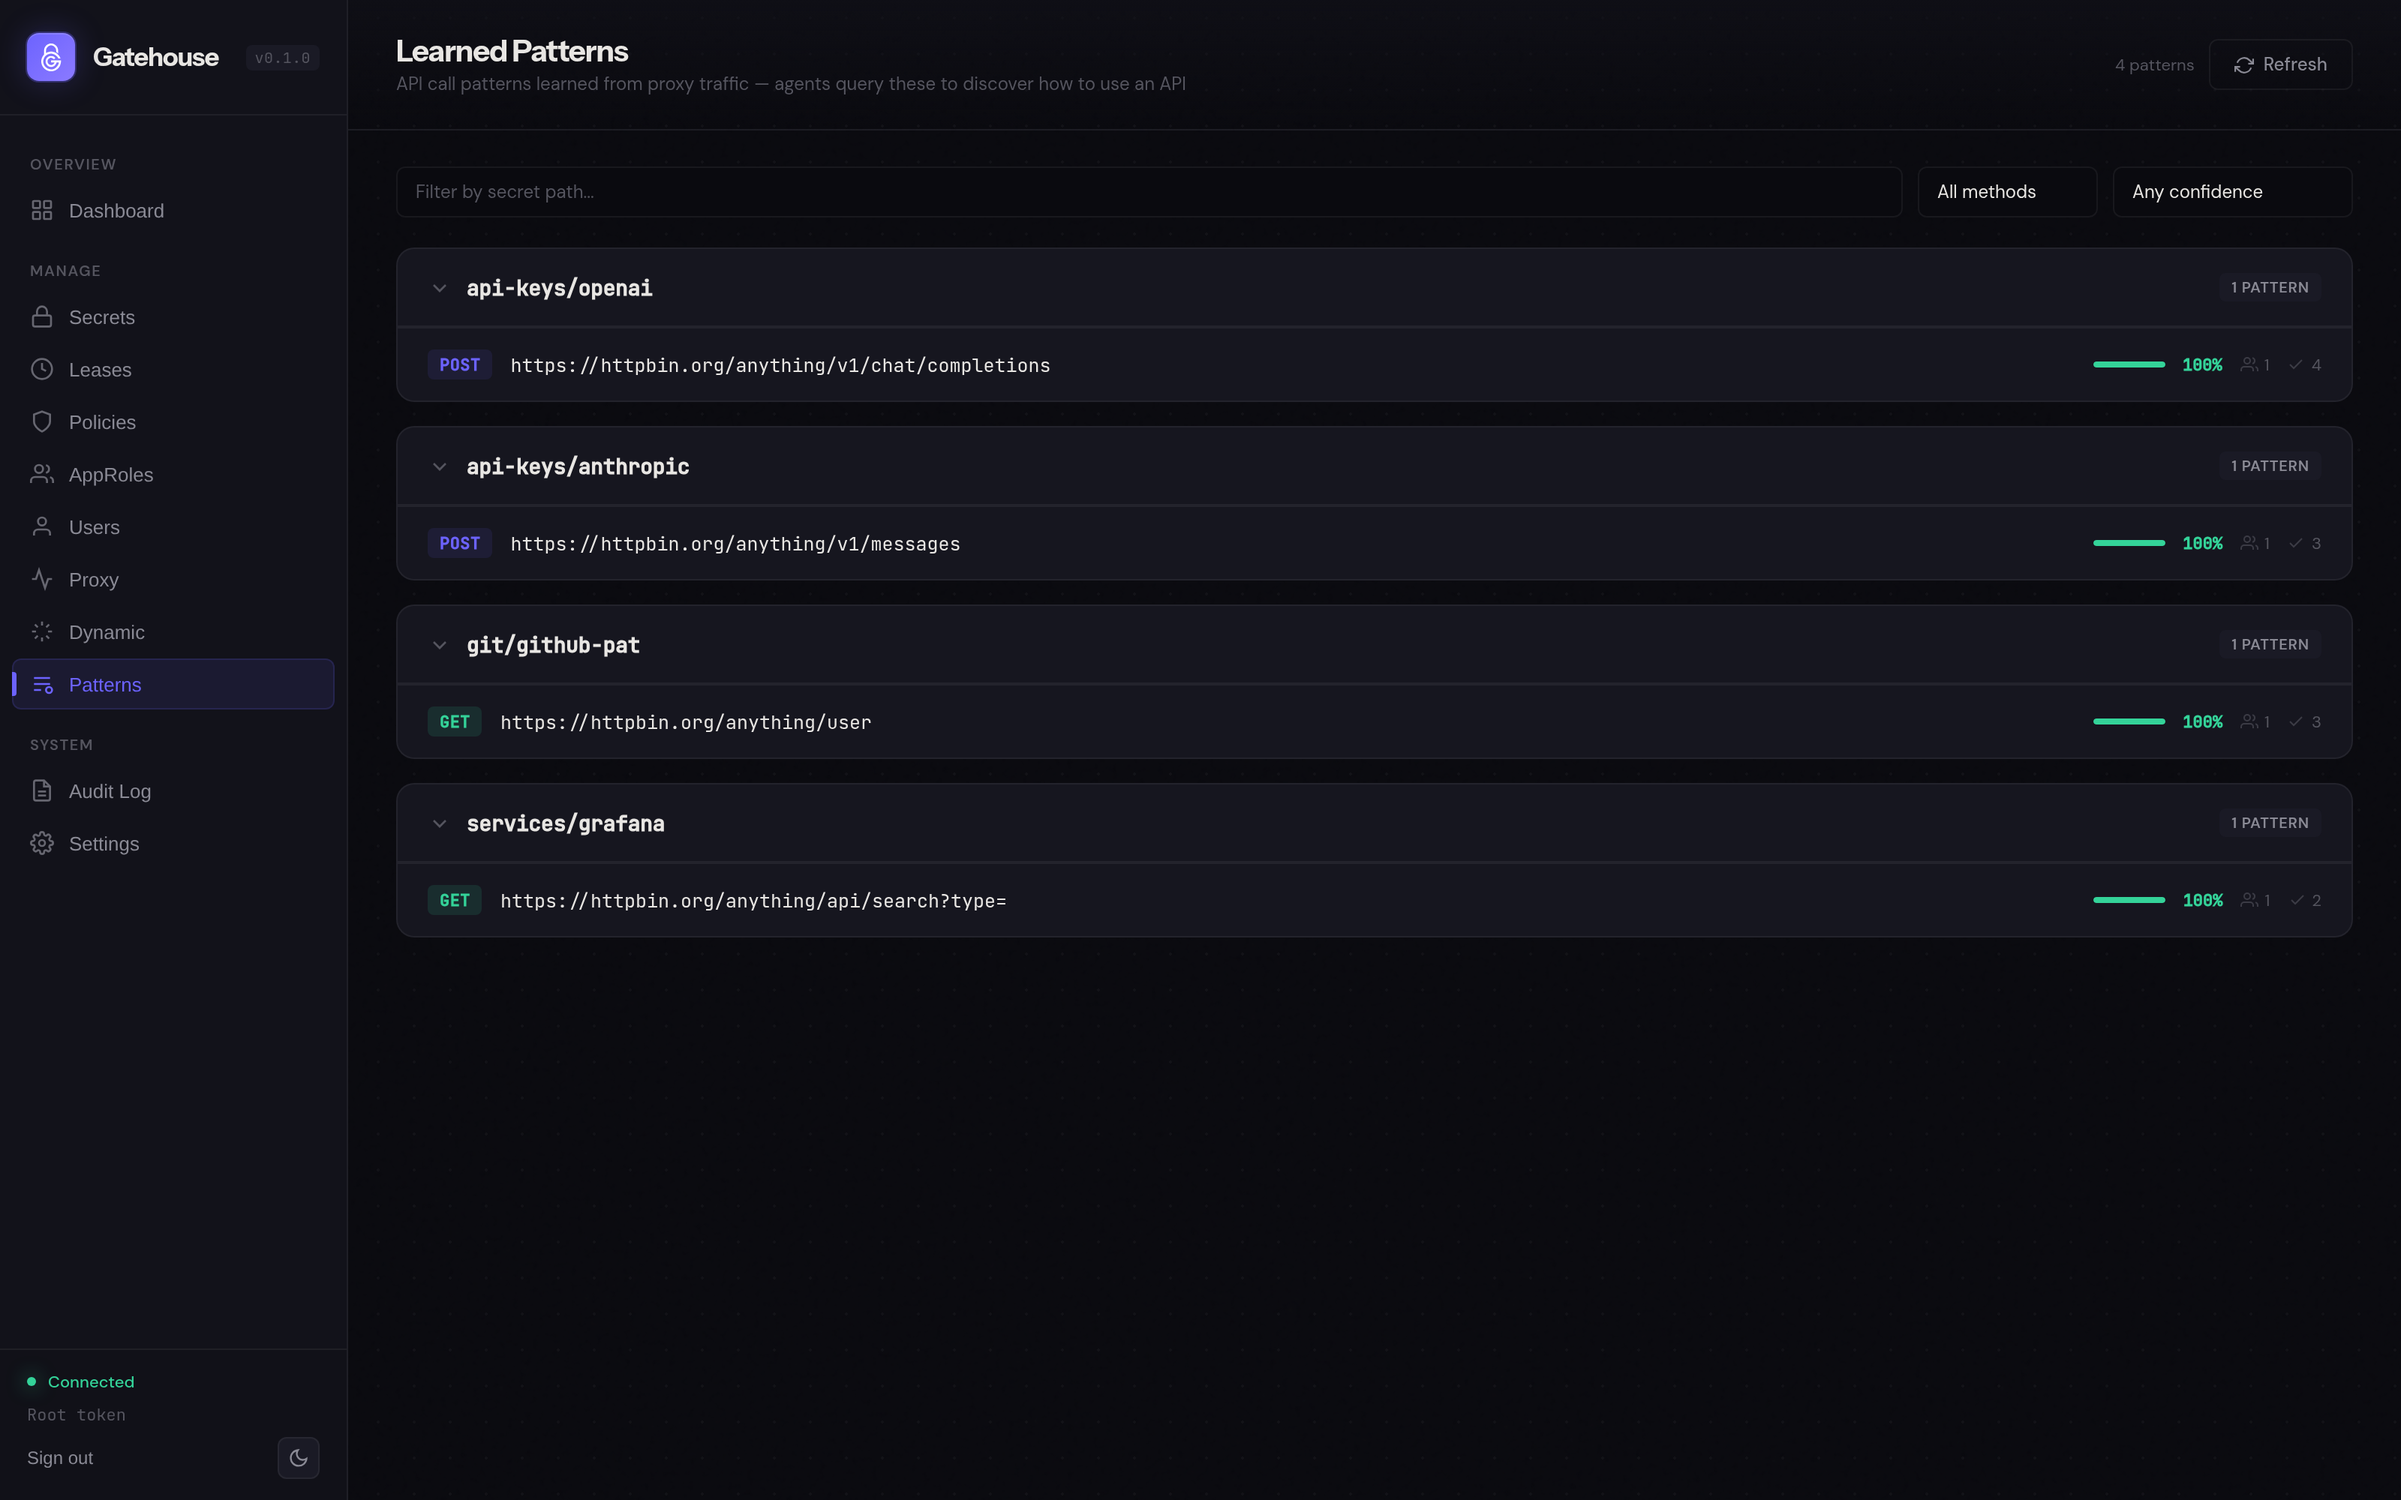
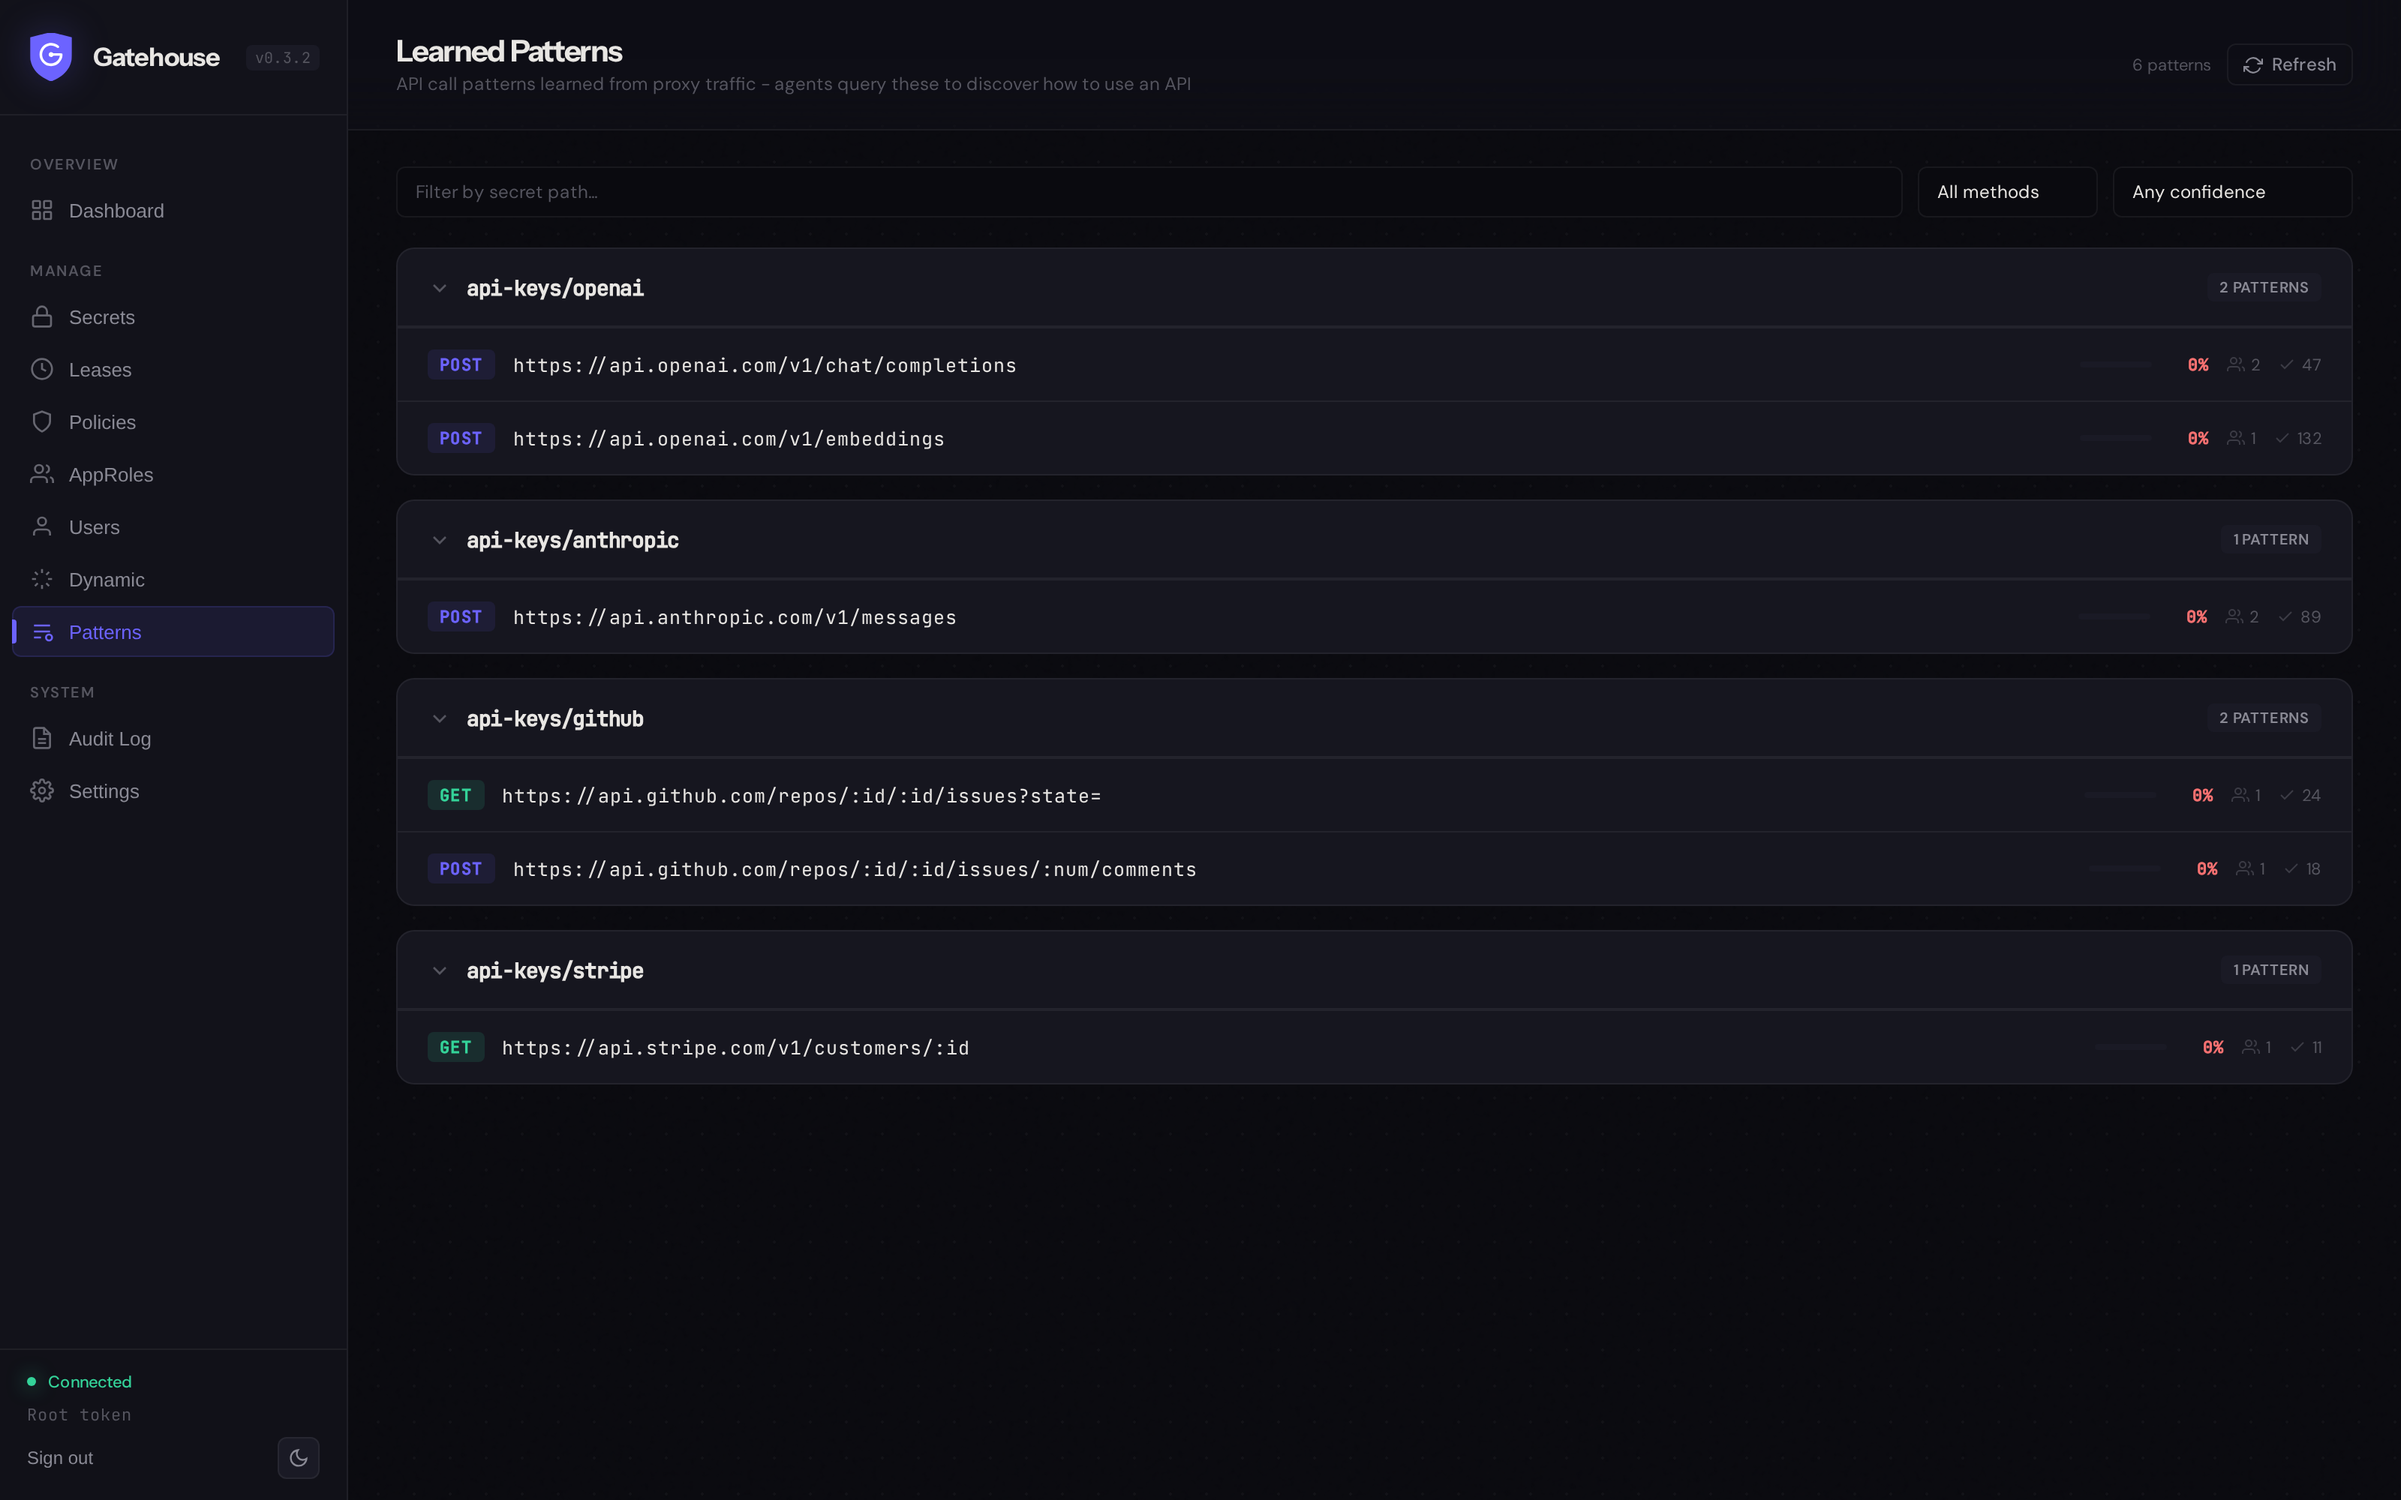
site: refresh screenshots from disposable seeded instance
New marketing screenshots (dashboard/secrets/patterns) generated from a
fresh Gatehouse instance with seeded demo data so no real paths or agent
names leak. Also adds scripts/screenshots.ts for future regeneration.

diff --git a/scripts/screenshots.ts b/scripts/screenshots.ts
@@ -1,0 +1,203 @@
+#!/usr/bin/env bun
+// Regenerate marketing screenshots at docs/screenshots/.
+// Spins up a disposable Gatehouse, seeds demo data, then drives Chromium
+// through the UI. Cleans everything up at the end.
+//
+// Usage: bun run scripts/screenshots.ts
+
+import { chromium } from "playwright";
+import { Database } from "bun:sqlite";
+import { mkdtempSync, rmSync } from "node:fs";
+import { tmpdir } from "node:os";
+import { join } from "node:path";
+import { spawn, type Subprocess } from "bun";
+import { randomUUID } from "node:crypto";
+
+const PORT = 3199;
+const BASE = `http://127.0.0.1:${PORT}`;
+const ROOT_TOKEN = "demo-root-token-screenshots";
+const MASTER_KEY = "a".repeat(64);
+// Write to the Astro public dir so `bun run site:build` picks them up and
+// publishes them into docs/screenshots/. Writing straight to docs/ would be
+// clobbered by the next site build.
+const OUT_DIR = join(import.meta.dir, "..", "site", "public", "screenshots");
+const VIEWPORT = { width: 1600, height: 1000 };
+
+async function waitForHealth(): Promise<void> {
+  for (let i = 0; i < 50; i++) {
+    try {
+      const r = await fetch(`${BASE}/health`);
+      if (r.ok) return;
+    } catch {}
+    await Bun.sleep(200);
+  }
+  throw new Error("gatehouse failed to start");
+}
+
+async function seedSecrets(): Promise<void> {
+  const secrets = [
+    { path: "api-keys/openai", value: "sk-proj-demo-openai-key-do-not-use", meta: { provider: "openai", note: "gpt-4 + embeddings" } },
+    { path: "api-keys/anthropic", value: "sk-ant-demo-anthropic-key-do-not-use", meta: { provider: "anthropic" } },
+    { path: "api-keys/github", value: "ghp_demoDemoDemoDemoDemoDemo", meta: { provider: "github", scopes: "repo,read:org" } },
+    { path: "api-keys/stripe", value: "sk_test_demoStripeKeyForScreenshots", meta: { provider: "stripe", env: "test" } },
+    { path: "services/postgres/primary", value: "postgres://demo:demo@db.internal:5432/app", meta: { env: "prod" } },
+    { path: "services/redis/cache", value: "redis://:demo@cache.internal:6379/0", meta: { env: "prod" } },
+    { path: "services/smtp/postmark", value: "postmark-demo-token", meta: { purpose: "transactional email" } },
+    { path: "agents/ingest-bot/jwt", value: "eyJhbGciOiJIUzI1NiIsInR5cCI6IkpXVCJ9.demo.demo", meta: { owner: "data-team" } },
+  ];
+  for (const s of secrets) {
+    const r = await fetch(`${BASE}/v1/secrets/${s.path}`, {
+      method: "POST",
+      headers: { "Authorization": `Bearer ${ROOT_TOKEN}`, "Content-Type": "application/json" },
+      body: JSON.stringify({ value: s.value, metadata: s.meta }),
+    });
+    if (!r.ok) throw new Error(`seed secret ${s.path}: ${r.status} ${await r.text()}`);
+  }
+}
+
+function seedPatterns(dataDir: string): void {
+  const db = new Database(join(dataDir, "gatehouse.db"));
+  const now = new Date().toISOString();
+  const rows = [
+    {
+      secret_path: "api-keys/openai", method: "POST", url_template: "https://api.openai.com/v1/chat/completions",
+      host: "api.openai.com",
+      request_headers: ["authorization", "content-type"],
+      request_body: { model: "string", messages: "array", temperature: "number" },
+      response_body: { id: "string", object: "string", choices: "array", usage: "object" },
+      successes: 47, failures: 1, agents: ["ingest-bot", "summarizer"],
+    },
+    {
+      secret_path: "api-keys/openai", method: "POST", url_template: "https://api.openai.com/v1/embeddings",
+      host: "api.openai.com",
+      request_headers: ["authorization", "content-type"],
+      request_body: { model: "string", input: "string" },
+      response_body: { data: "array", model: "string", usage: "object" },
+      successes: 132, failures: 0, agents: ["ingest-bot"],
+    },
+    {
+      secret_path: "api-keys/anthropic", method: "POST", url_template: "https://api.anthropic.com/v1/messages",
+      host: "api.anthropic.com",
+      request_headers: ["x-api-key", "anthropic-version", "content-type"],
+      request_body: { model: "string", max_tokens: "number", messages: "array" },
+      response_body: { id: "string", type: "string", content: "array", usage: "object" },
+      successes: 89, failures: 2, agents: ["summarizer", "ingest-bot"],
+    },
+    {
+      secret_path: "api-keys/github", method: "GET", url_template: "https://api.github.com/repos/:id/:id/issues?state=",
+      host: "api.github.com",
+      request_headers: ["authorization", "accept"],
+      request_body: null,
+      response_body: null,
+      successes: 24, failures: 0, agents: ["triage-bot"],
+    },
+    {
+      secret_path: "api-keys/github", method: "POST", url_template: "https://api.github.com/repos/:id/:id/issues/:num/comments",
+      host: "api.github.com",
+      request_headers: ["authorization", "accept", "content-type"],
+      request_body: { body: "string" },
+      response_body: { id: "number", html_url: "string", body: "string" },
+      successes: 18, failures: 1, agents: ["triage-bot"],
+    },
+    {
+      secret_path: "api-keys/stripe", method: "GET", url_template: "https://api.stripe.com/v1/customers/:id",
+      host: "api.stripe.com",
+      request_headers: ["authorization"],
+      request_body: null,
+      response_body: { id: "string", object: "string", email: "string", subscriptions: "object" },
+      successes: 11, failures: 0, agents: ["billing-bot"],
+    },
+  ];
+
+  const stmt = db.prepare(`
+    INSERT INTO proxy_patterns
+    (id, secret_path, method, url_template, host, request_headers, request_body_schema,
+     response_status, response_body_schema, recent_outcomes, agents,
+     total_successes, total_failures, pinned, created_at, updated_at)
+    VALUES (?, ?, ?, ?, ?, ?, ?, 200, ?, ?, ?, ?, ?, 0, ?, ?)
+  `);
+  for (const r of rows) {
+    const outcomes = Array(20).fill(1).map((_, i) => (i < r.failures ? 0 : 1));
+    stmt.run(
+      randomUUID(),
+      r.secret_path, r.method, r.url_template, r.host,
+      JSON.stringify(r.request_headers),
+      r.request_body ? JSON.stringify(r.request_body) : null,
+      r.response_body ? JSON.stringify(r.response_body) : null,
+      JSON.stringify(outcomes),
+      JSON.stringify(r.agents),
+      r.successes, r.failures,
+      now, now,
+    );
+  }
+  db.close();
+}
+
+async function main(): Promise<void> {
+  const dataDir = mkdtempSync(join(tmpdir(), "gatehouse-shots-"));
+  let server: Subprocess | null = null;
+  try {
+    console.log(`[shots] data dir: ${dataDir}`);
+    server = spawn({
+      cmd: ["bun", "run", "src/index.ts"],
+      cwd: join(import.meta.dir, ".."),
+      env: {
+        ...process.env,
+        GATEHOUSE_MASTER_KEY: MASTER_KEY,
+        GATEHOUSE_ROOT_TOKEN: ROOT_TOKEN,
+        GATEHOUSE_DATA_DIR: dataDir,
+        GATEHOUSE_CONFIG_DIR: join(import.meta.dir, "..", "config"),
+        GATEHOUSE_PORT: String(PORT),
+        GATEHOUSE_LOG_LEVEL: "error",
+      },
+      stdout: "ignore",
+      stderr: "inherit",
+    });
+
+    await waitForHealth();
+    console.log("[shots] server healthy, seeding...");
+    await seedSecrets();
+    seedPatterns(dataDir);
+    console.log("[shots] seeded, launching browser...");
+
+    const browser = await chromium.launch();
+    const ctx = await browser.newContext({ viewport: VIEWPORT, deviceScaleFactor: 2 });
+    const page = await ctx.newPage();
+
+    await page.goto(BASE, { waitUntil: "networkidle" });
+    await page.click("#login-tab-token");
+    await page.fill("#login-token", ROOT_TOKEN);
+    await page.click("#login-submit-btn");
+    await page.waitForSelector(".nav-item.active[data-page=dashboard]", { state: "visible" });
+    await page.waitForTimeout(500);
+
+    const shots: Array<[string, string]> = [
+      ["dashboard", "dashboard"],
+      ["secrets", "secrets"],
+      ["patterns", "patterns"],
+    ];
+    for (const [page_name, file] of shots) {
+      await page.click(`.nav-item[data-page=${page_name}]`);
+      await page.waitForTimeout(800);
+      if (page_name === "secrets") {
+        // Expand the api-keys group and open the openai secret so the detail panel renders.
+        const leaf = page.locator(".tree-item", { hasText: "openai" }).first();
+        if (await leaf.count()) await leaf.click();
+        await page.waitForTimeout(600);
+      }
+      const out = join(OUT_DIR, `${file}.png`);
+      await page.screenshot({ path: out, fullPage: false });
+      console.log(`[shots] wrote ${out}`);
+    }
+
+    await browser.close();
+  } finally {
+    if (server) {
+      server.kill();
+      await server.exited;
+    }
+    rmSync(dataDir, { recursive: true, force: true });
+  }
+}
+
+await main();
